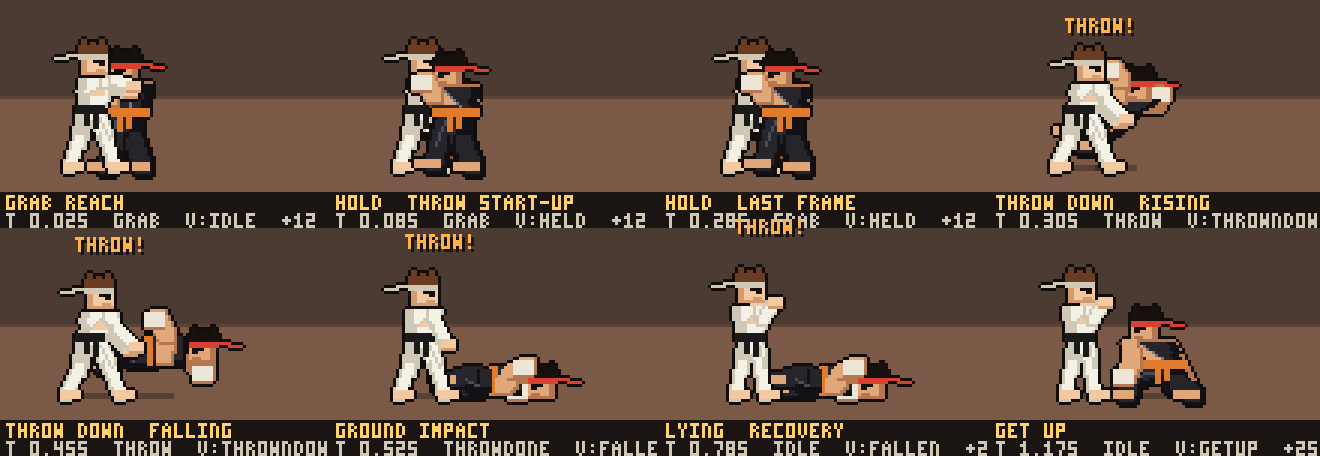
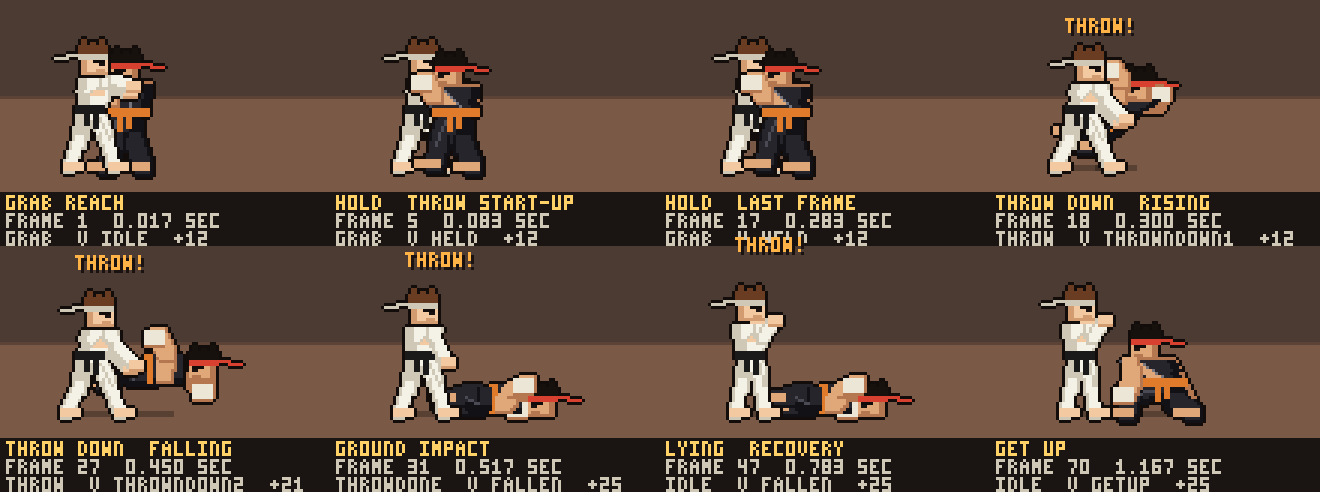
Correct the preview timing captions and record the integration review decisions
The preview strip printed the time as "T 0.52S": two decimals with the unit
letter straight after them, which the bitmap font made read as 0.525 (and
0.085, 0.285 and so on in the other panels). Captions now state the frame
and the time to three decimals with the unit set apart (FRAME 31  0.517 SEC)
on a taller caption bar. No timing changed: GROUND IMPACT is frame 31,
31/60 = 0.5167 s.

The briefs record the founder's integration decisions (keep the drawing-only
touchdown fix, keep the victim-over-Tamas draw order, keep the native cells
at the approved 90 px H1 scale with the frozen cells untouched) and the two
known visual items left for the art chat: the temporary 80 -> 90 px step
between the older and newer states, to be resolved in a separate coordinated
artwork update, and the forearm obscured by bulky victims during the hold.

Changed region(s): [[0.0, 0.5526, 1.0, 1.0], [0.0, 0.0307, 1.0, 0.5526]]

diff --git a/docs/art/grab-throw-brief.md b/docs/art/grab-throw-brief.md
@@ -209,8 +209,12 @@ drive the preview strip.
 needed) with the procedural fighters, one panel per beat: grab reach, hold start, hold end,
 throw-down rising, throw-down falling, ground impact, lying, get-up. Each caption carries the
 time, Tamas's pose, the victim's pose and the victim's offset. It shows the motion and the
-timing, not the production art. Captions print the time with two decimals, so the GROUND IMPACT
-panel reads `T 0.52S`: that is frame 31, 0.517 s, not 0.525 s.
+timing, not the production art. Each caption now states the frame and the time to three decimals
+with the unit set apart (`FRAME 31  0.517 SEC`). The earlier strip printed `T 0.52S`, the
+two-decimal time with the unit letter directly after it; in the bitmap font that S read as a 5, so
+the art chat saw "0.525" (and "0.085", "0.285" and so on in the other panels). The simulation was
+never sampled at 0.525 s: GROUND IMPACT is frame 31, 31/60 = 0.5167 s, and all gameplay timing is
+as measured in section 3.3.
 
 The integrated build is documented by three sheets captured from the real game (the art buffer at
 3×, same simulation, same renderer): `preview/integrated-sprint.png`,
@@ -261,17 +265,27 @@ arrays into `assets/sprites/tamas.json`; the script refuses to touch an existing
 `test/spriteSheet.test.js` asserts `frameFor('throw', { phase })` → startup 60, active 61,
 recovery 62. The only code change beyond the brief was `throwPhase` (section 3.3).
 
-## Notes for the art chat (integration review, 8 November)
+## Integration review: decisions and known visual items (8 November)
 
-- **Presentation change, flagged:** the GROUND IMPACT cell now waits for the actual touchdown
-  (`throwPhase`). Drawn durations: GRAB hold 13 frames, THROW DOWN 13 frames, GROUND IMPACT 17
-  frames. Gameplay values (0.20 / 0.20 / 0.30 s attack phases, +12 grip, +25 landing, damage 20,
-  floor time 0.9 s, release-time damage, landing-time effects, interruption) are unchanged.
-- **Draw order, observation only:** the held victim is drawn over Tamas, as agreed. With the bulky
-  procedural striker and boss this covers Tamas's near forearm during the hold, so the grip reads
-  through proximity and the visible upper arm rather than the fingers; the kicker and thrower show
-  the near hand at the collar. No change made; say if the victim should go behind Tamas instead.
+Decided by the founder on the integration review:
+
+- **Touchdown fix kept (drawing only):** the THROW DOWN cell holds while the victim is airborne and
+  GROUND IMPACT begins on the actual touchdown (`throwPhase`). Drawn durations: GRAB hold 13
+  frames, THROW DOWN 13 frames, GROUND IMPACT 17 frames. Gameplay values (0.20 / 0.20 / 0.30 s
+  attack phases, +12 grip, +25 landing, damage 20, floor time 0.9 s, release-time damage,
+  landing-time effects, interruption) are unchanged and verified.
+- **Draw order kept:** the held victim is drawn over Tamas, as agreed.
+- **Native 90 px scale kept:** the new cells stay at the approved H1 scale; the frozen production
+  cells stay as they are in this change.
+
+Known visual items, not blockers, open for the art chat (final visual approval pending: the art
+chat has had the written report but not the three `preview/integrated-*.png` captures):
+
+- **Temporary art issue, 80 → 90 px:** idle, walk and the attacks are still the 80 px production
+  figure, so Tamas grows by 10 px when a sprint or a throw starts and shrinks back after. Nothing is
+  resized by the game. Consistent proportions across the older and newer states will be handled in
+  a separate, coordinated artwork update.
+- **Visual follow-up, obscured forearm:** with the bulky procedural striker and boss the victim's
+  body covers Tamas's near forearm during the hold, so the grip reads through proximity and the
+  visible upper arm rather than the fingers; the kicker and thrower show the near hand at the collar.
 - The hit flash on the victim at the release (frame 18) is the standard white hit flash.
-- The native cells use the 90 px H1 figure; idle, walk and attacks are still the 80 px production
-  cells, so the figure grows by 10 px when a throw or a sprint starts and shrinks back after. Nothing
-  is resized by the game; this is visible in the integrated sheets and is for the art chat to judge.

diff --git a/docs/art/sprint-brief.md b/docs/art/sprint-brief.md
@@ -21,7 +21,12 @@ made (`SPRINT_CELL_RATE` and `resolveFrame` in `src/heroSprite.js`) and tested. 
 browser: five simulation frames per cell, 48 → 53 → 48 every 30 frames, idle → sprint from cell
 48, punch mid-sprint and back, release → idle. Real-game sheet: `preview/integrated-sprint.png`.
 As received, the contact and push-off cells are 85-86 px tall (rows 10/11-95, the lean), the
-flight cells 79 px ending on row 87; nothing is resized.
+flight cells 79 px ending on row 87; nothing is resized. **Known temporary art issue:** idle,
+walk and the attacks are still the 80 px production figure, so Tamas grows by 10 px when the sprint
+starts and shrinks back when it stops (see `preview/integrated-sprint.png`). Decided on the
+integration review: keep the native cells at the approved 90 px H1 scale and the frozen cells as
+they are; consistent proportions across old and new states come in a separate, coordinated artwork
+update. Final visual approval by the art chat is pending.
 
 ## What the game does today
 
